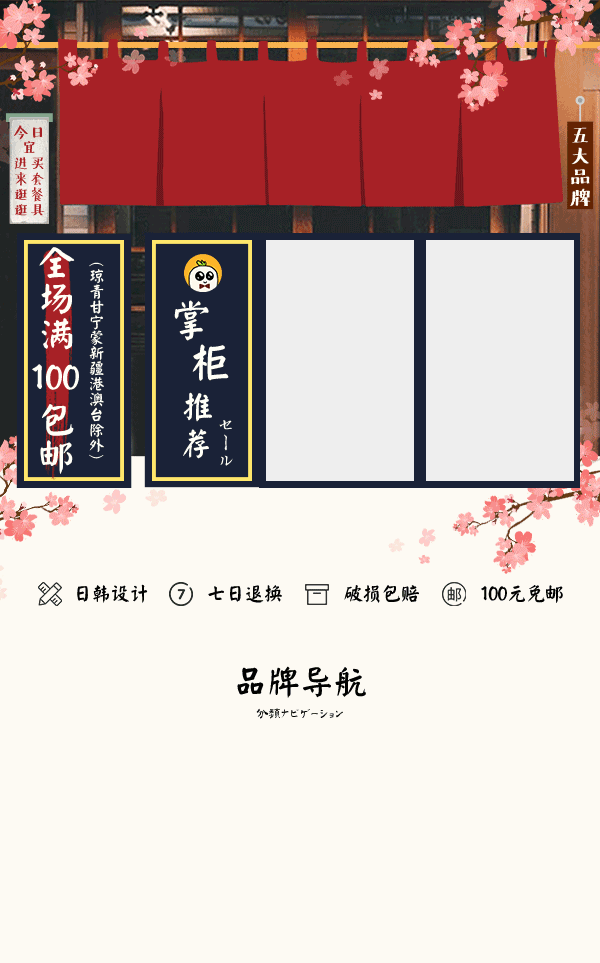
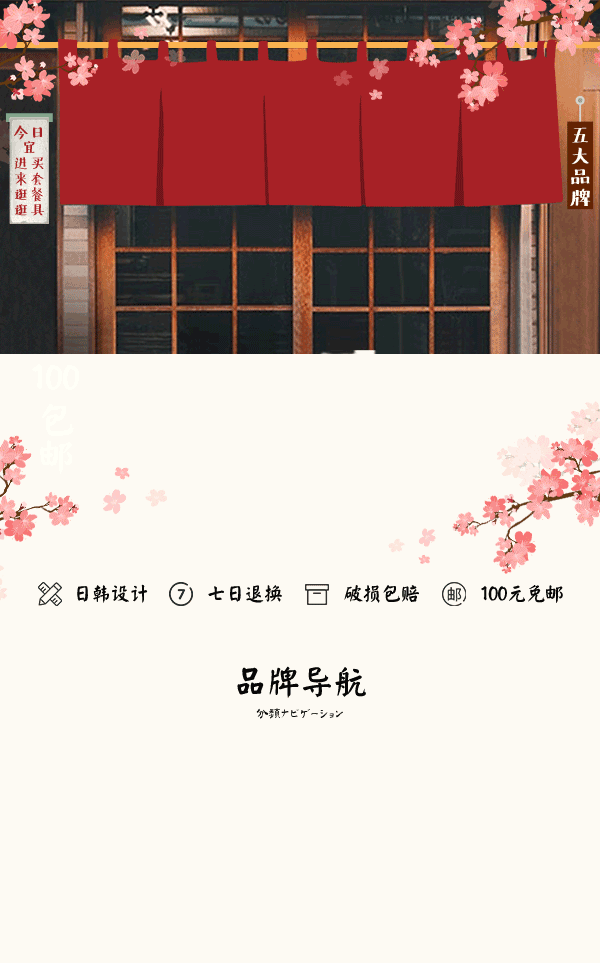
up

Changed region(s): [[0.0, 0.2181, 1.0, 0.5296], [0.99, 0.0623, 1.0, 0.1246]]

diff --git a/pages/index/index.vue b/pages/index/index.vue
@@ -1,15 +1,22 @@
 <template>
-    <a class="start">
-        <image :src="img" mode="aspectFill" @click="index()"></image>
-        <div class="link1"></div>
-        <div class="link2"></div>
-        <div class="link3"></div>
-        <div class="link4"></div>
-        <div class="link5"></div>
+    <div class="start">
+        <image class="start-image" :src="aaa.backLogo.logo" mode="aspectFill"></image>
+        {{aaa.backLogo.url}}
+        <div class="top">
+            <div class="top-item" @click="jump(item.url)" v-for="(item, index) in aaa.header" :key="index"><image :src="item.logo" mode="aspectFill"></image></div>
+        </div>
 
-        <div class="link6"></div>
-        <div class="link7"></div>
-    </a>
+        <div class="pro">
+            <div class="pro-item1" @click="jump(aaa.body[0].url)"><image :src="aaa.body[0].logo" mode="aspectFill"></image></div>
+            <div class="pro-item1" @click="jump(aaa.body[1].url)"><image :src="aaa.body[1].logo" mode="aspectFill"></image></div>
+            <div class="pro-item" @click="jump(aaa.body[2].url)"><image :src="aaa.body[2].logo" mode="aspectFill"></image></div>
+            <div class="pro-item" @click="jump(aaa.body[3].url)"><image :src="aaa.body[3].logo" mode="aspectFill"></image></div>
+        </div>
+
+        <div class="nav">
+            <div class="nav-item" @click="jump(item.url)" v-for="(item, index) in aaa.footer" :key="index"><image :src="item.logo" mode="aspectFill"></image></div>
+        </div>
+    </div>
 </template>
 
 <script>
@@ -18,30 +25,36 @@ export default {
     components: {},
     data() {
         return {
-            img: '/static/img/ad.png'
+            aaa: {}
         }
     },
     methods: {
-        index() {
-            u.jump('/pages/index1/index1', true)
+        jump(url) {
+            console.log(url)
+            u.jump(url)
+            if (url.indexOf('index1') != -1 || url.indexOf('user') != -1 || url.indexOf('open') != -1 || url.indexOf('store') != -1 || url.indexOf('cart') != -1) {
+                u.jump(url, true)
+            } else {
+                u.jump(url)
+            }
         }
     },
     onLoad() {
         console.log('start onLoad')
-        // u.request({
-        //     url: u.api.weapp,
-        //     method: 'POST',
-        //     data: {},
-        //     isVerifyLogin: false,
-        //     success(res) {
-        //         console.log(res)
-
-        //     },
-        //     fail(res) {
-        //         console.error('错误')
-        //         console.error(res)
-        //     }
-        // })
+        var that = this
+        u.request({
+            url: u.api.weapp,
+            method: 'POST',
+            data: {},
+            isVerifyLogin: false,
+            success(res) {
+                console.log(res)
+                that.aaa = res
+            },
+            fail(res) {
+                console.error(res)
+            }
+        })
     },
     onShow() {
         console.log('start onShow')
@@ -55,74 +68,75 @@ export default {
     position: fixed;
     width: 750upx;
     height: 100%;
+    background-color: #FDFAF3;
 }
-.start image {
+.start-image {
     display: block;
     width: 750upx;
-    height: 100%;
+    height: 1204upx;
 }
-.start .link1 {
+.top {
     position: absolute;
-    width: 120upx;
-    height: 200upx;
-    background-color: rgba(000,000,000,0.8);
-    top: 50upx;
-    left: 70upx;
+    width: 700upx;
+    top: 65upx;
+    left: 40upx;
+    text-align: center;
 }
-
-.start .link2 {
-    position: absolute;
-    width: 120upx;
-    height: 200upx;
-    background-color: rgba(000,000,000,0.8);
-    top: 60upx;
-    left: 200upx;
+.top-item {
+    display: inline-block;
+    width: 125upx;
+    height: 187upx;
 }
-
-.start .link3 {
-    position: absolute;
-    width: 120upx;
-    height: 200upx;
-    background-color: rgba(000,000,000,0.8);
-    top: 60upx;
-    left: 330upx;
+.top-item image {
+    display: block;
+    width: 125upx;
+    height: 187upx;
 }
 
-.start .link4 {
+.pro {
     position: absolute;
-    width: 120upx;
-    height: 200upx;
-    background-color: rgba(000,000,000,0.8);
-    top: 60upx;
-    left: 460upx;
-}
-
-.start .link5 {
-    position: absolute;
-    width: 120upx;
-    height: 200upx;
-    background-color: rgba(000,000,000,0.8);
-    top: 60upx;
-    left: 580upx;
-}
-
-
-
-.start .link6 {
-    position: absolute;
-    width: 180upx;
-    height: 300upx;
-    background-color: rgba(000,000,000,0.8);
+    width: 750upx;
     top: 300upx;
-    left: 340upx;
+    text-align: center;
+    overflow: hidden;
+}
+.pro-item1 {
+    display: inline-block;
+    width: 145upx;
+    height: 320upx;
+}
+.pro-item1 image {
+    display: block;
+    width: 145upx;
+    height: 320upx;
+}
+.pro-item {
+    display: inline-block;
+    width: 200upx;
+    height: 320upx;
+}
+.pro-item image {
+    display: block;
+    width: 200upx;
+    height: 320upx;
 }
 
-.start .link7 {
+
+.nav {
     position: absolute;
-    width: 180upx;
-    height: 300upx;
-    background-color: rgba(000,000,000,0.8);
-    top: 300upx;
-    left: 540upx;
+    width: 750upx;
+    top: 930upx;
+    text-align: center;
+}
+.nav-item {
+    display: inline-block;
+    width: 125upx;
+    height: 225upx;
+    margin: 0 5upx;
+}
+.nav-item image {
+    display: block;
+    width: 125upx;
+    height: 225upx;
 }
 </style>
